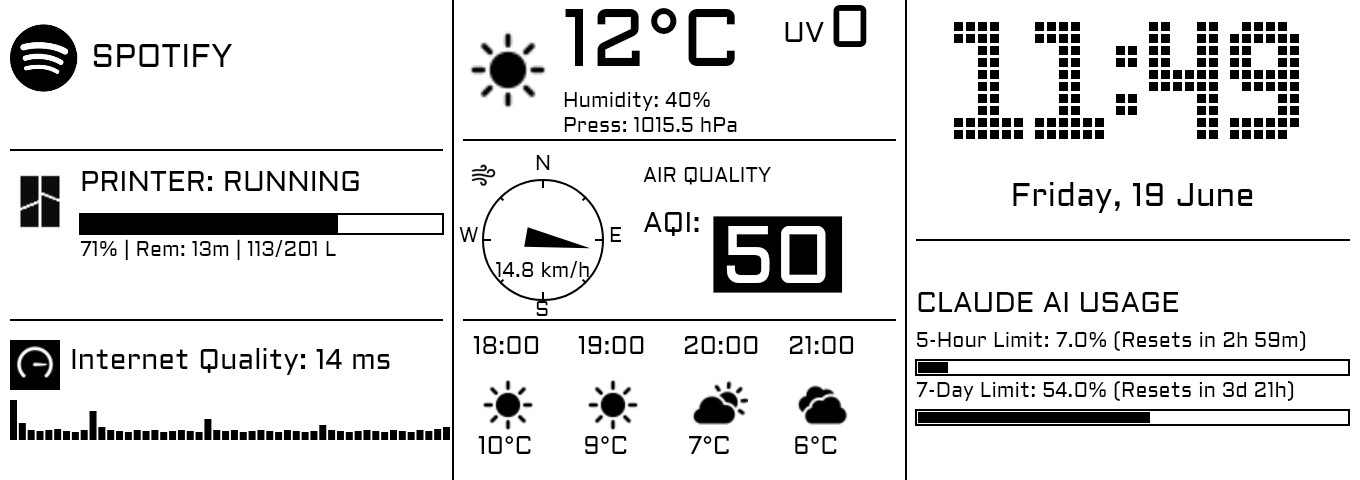
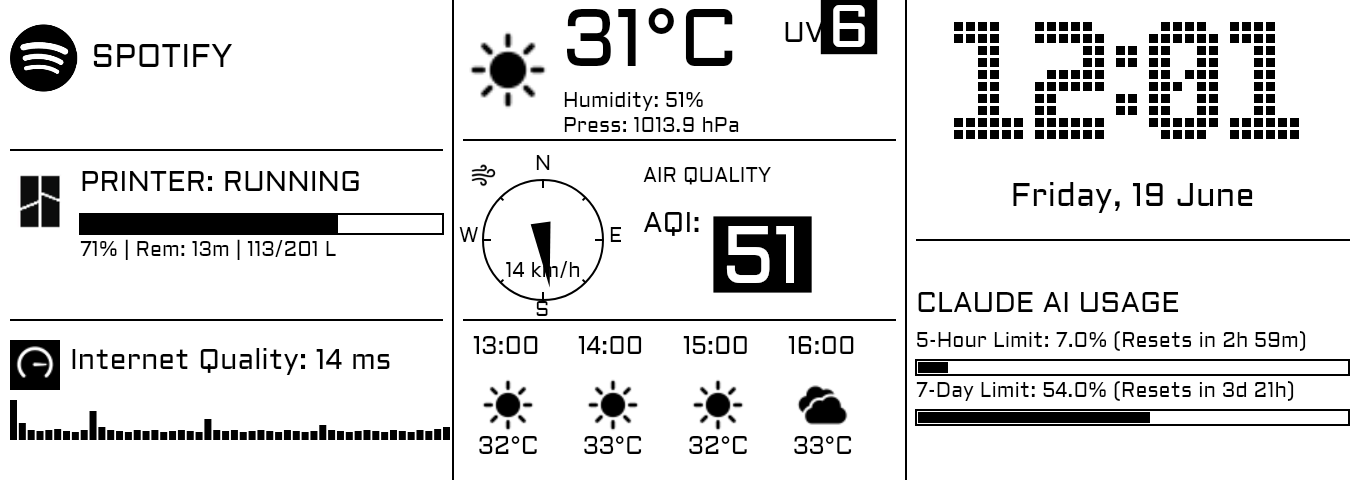
feat: wire live open-meteo data into the weather widget
Add a data layer (src/data/weather.ts) that fetches current weather +
European AQI from open-meteo, maps to WeatherData, and slices the next 4
hourly entries. A module-level store keeps the last good snapshot and the
renderer reads it synchronously via getWeather(); failures preserve the
previous value so the dashboard keeps rendering offline.

main.ts fetches once before the first frame, then refreshes every 600s
(WEATHER_REFRESH_MS), independent of the 60s render loop. Adds
LOCATION_LAT/LON config.

diff --git a/src/data/weather.ts b/src/data/weather.ts
@@ -1,0 +1,86 @@
+import { LOCATION_LAT, LOCATION_LON } from "../config.js";
+import {
+  MOCK_WEATHER,
+  type WeatherData,
+  type ForecastHour,
+} from "../render/widgets/weather.js";
+
+const WEATHER_URL = "https://api.open-meteo.com/v1/forecast";
+const AQI_URL = "https://air-quality-api.open-meteo.com/v1/air-quality";
+
+/** Last good snapshot. Seeded with the mock so the first frame has content. */
+let latest: WeatherData = MOCK_WEATHER;
+
+/** Returns the most recent weather snapshot (never null). */
+export function getWeather(): WeatherData {
+  return latest;
+}
+
+const pad2 = (n: number): string => String(n).padStart(2, "0");
+
+/** Picks the next 4 hours from open-meteo's hourly arrays (main.py parity). */
+function sliceForecast(
+  hourly: { time: string[]; temperature_2m: number[]; weather_code: number[] },
+  now: Date,
+): ForecastHour[] {
+  const curIso = `${now.getFullYear()}-${pad2(now.getMonth() + 1)}-${pad2(
+    now.getDate(),
+  )}T${pad2(now.getHours())}:00`;
+  const found = hourly.time.indexOf(curIso);
+  const start = found >= 0 ? found + 1 : 0;
+
+  const out: ForecastHour[] = [];
+  for (let i = 0; i < 4; i++) {
+    const idx = start + i;
+    if (idx >= hourly.time.length) break;
+    out.push({
+      time: hourly.time[idx].split("T")[1].slice(0, 5),
+      temp: hourly.temperature_2m[idx],
+      code: hourly.weather_code[idx],
+    });
+  }
+  return out;
+}
+
+/** Fetches current weather + AQI from open-meteo. Returns null on any failure. */
+async function fetchWeather(now: Date): Promise<WeatherData | null> {
+  const wUrl =
+    `${WEATHER_URL}?latitude=${LOCATION_LAT}&longitude=${LOCATION_LON}` +
+    "&current=temperature_2m,relative_humidity_2m,surface_pressure,wind_speed_10m,wind_direction_10m,weather_code,is_day,uv_index" +
+    "&hourly=temperature_2m,weather_code&timezone=auto&forecast_days=2";
+  const aUrl =
+    `${AQI_URL}?latitude=${LOCATION_LAT}&longitude=${LOCATION_LON}` +
+    "&current=european_aqi&timezone=auto";
+
+  try {
+    const [wRes, aRes] = await Promise.all([fetch(wUrl), fetch(aUrl)]);
+    if (!wRes.ok) return null;
+    const w = await wRes.json();
+    const a = aRes.ok ? await aRes.json() : null;
+    const cur = w.current;
+
+    return {
+      temp: cur.temperature_2m,
+      humidity: cur.relative_humidity_2m,
+      pressure: cur.surface_pressure,
+      code: cur.weather_code,
+      isDay: cur.is_day === 1,
+      windDir: cur.wind_direction_10m,
+      windSpeed: cur.wind_speed_10m,
+      uv: cur.uv_index,
+      aqi: a?.current?.european_aqi ?? 0,
+      forecast: sliceForecast(w.hourly, now),
+    };
+  } catch {
+    return null;
+  }
+}
+
+/**
+ * Refreshes the weather snapshot. Keeps the last good value on failure so the
+ * dashboard keeps rendering when the network is down (main.py resilience).
+ */
+export async function refreshWeather(now: Date): Promise<void> {
+  const data = await fetchWeather(now);
+  if (data) latest = data;
+}

diff --git a/src/main.ts b/src/main.ts
@@ -2,9 +2,14 @@ import { createFrame, writeFramePng } from "./render/canvas.js";
 import { renderScreen } from "./render/screen.js";
 // import { pushFrame } from "./display.js";
 import { nextRefresh } from "./refresh.js";
-import { FRAME_PATH, RENDER_INTERVAL_MS } from "./config.js";
+import {
+  FRAME_PATH,
+  RENDER_INTERVAL_MS,
+  WEATHER_REFRESH_MS,
+} from "./config.js";
 import { loadSpotifyAssets } from "./render/widgets/spotify.js";
 import { preloadIcons } from "./render/icons.js";
+import { refreshWeather } from "./data/weather.js";
 
 async function renderAndPush(counter: number): Promise<number> {
   const decision = nextRefresh(counter);
@@ -38,6 +43,10 @@ async function main(): Promise<void> {
     "icon_storm",
   ]);
   await loadSpotifyAssets();
+
+  // Fetch weather before the first frame so it shows live data immediately.
+  await refreshWeather(new Date());
+
   // First frame always forces a full refresh (clears the panel), like main.py startup.
   let counter = await renderAndPush(600);
   if (once) return;
@@ -47,6 +56,11 @@ async function main(): Promise<void> {
       counter = c;
     });
   }, RENDER_INTERVAL_MS);
+
+  // Refresh weather on its own slow cadence; failures keep the last good value.
+  setInterval(() => {
+    void refreshWeather(new Date());
+  }, WEATHER_REFRESH_MS);
 }
 
 void main();

diff --git a/src/config.ts b/src/config.ts
@@ -13,3 +13,10 @@ export const FONT_DIR = join(ROOT, "assets", "fonts");
 export const DISPLAY_SCRIPT = join(ROOT, "python", "display.py");
 export const RENDER_INTERVAL_MS = 60_000;
 export const DISPLAY_TIMEOUT_MS = 25_000;
+
+// Change to your GEO location (defaults from main.py).
+export const LOCATION_LAT = 51.68819911038824;
+export const LOCATION_LON = 5.196984958269829;
+
+// Weather is refreshed on its own slow cadence (main.py: 600s).
+export const WEATHER_REFRESH_MS = 600_000;

diff --git a/src/render/screen.ts b/src/render/screen.ts
@@ -4,7 +4,8 @@ import { line } from "./draw.js";
 import { renderSpotify, MOCK_SPOTIFY } from "./widgets/spotify.js";
 import { renderPrinter, MOCK_PRINTER } from "./widgets/printer.js";
 import { renderInternet, MOCK_INTERNET } from "./widgets/internet.js";
-import { renderWeather, MOCK_WEATHER } from "./widgets/weather.js";
+import { renderWeather } from "./widgets/weather.js";
+import { getWeather } from "../data/weather.js";
 import { renderClock } from "./widgets/clock.js";
 import { renderClaude, MOCK_CLAUDE } from "./widgets/claude.js";
 
@@ -48,8 +49,8 @@ export function renderScreen(ctx: SKRSContext2D, now: Date): void {
   line(ctx, COL_DEFAULT_PAD, ROW_DIVIDER_2, COL_W - COL_DEFAULT_PAD, ROW_DIVIDER_2);
   renderInternet(ctx, COL_DEFAULT_PAD, ROW3_Y, COL_CONTENT_W, MOCK_INTERNET);
 
-  // Column 2: Weather (full column)
-  renderWeather(ctx, COL_W + COL_DEFAULT_PAD, COL_CONTENT_W, MOCK_WEATHER);
+  // Column 2: Weather (full column, live data)
+  renderWeather(ctx, COL_W + COL_DEFAULT_PAD, COL_CONTENT_W, getWeather());
 
   // Column 3, row 1 (top half): time + date
   const col3x = COL_W * 2 + COL_DEFAULT_PAD;